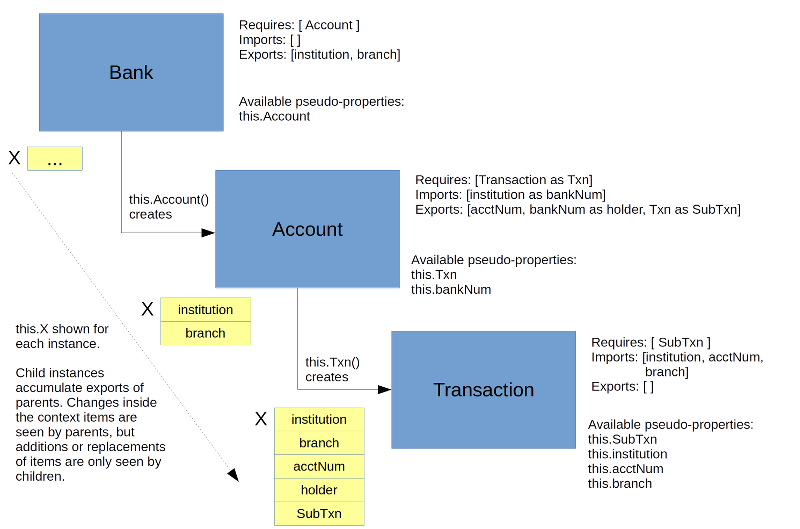
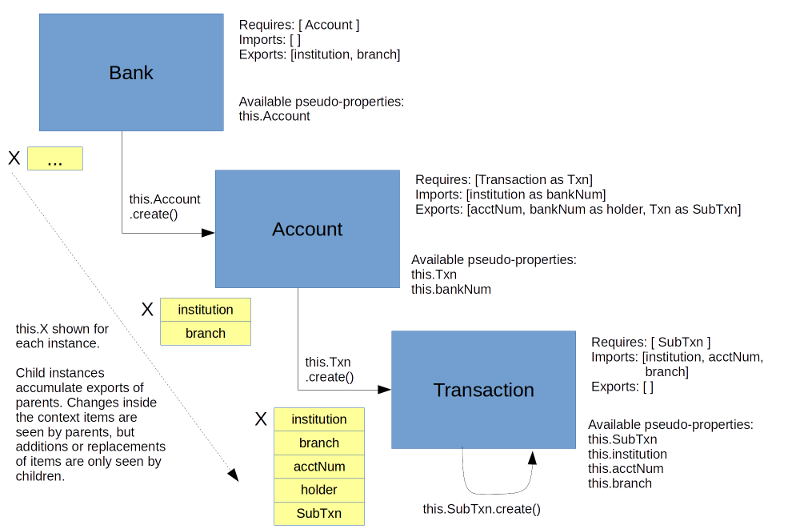
Doc Updates to revert to .create()

diff --git a/apps/docs/developerDocs.js b/apps/docs/developerDocs.js
@@ -236,13 +236,13 @@ var RegisterDevDocs = function(opt_X) {
           <ul>
           <li>To use a $$DOC{ref:'Model'} definition, add it to your $$DOC{ref:'Model.requires'}.
           This indicates not only that it should be loaded for you, but also installs a
-          shortcut on your instance so you can call <code>this.ModelName()</code> to
+          shortcut on your instance so you can call <code>this.ModelName.create()</code> to
           create an instance.
           </li>
           <li>To access values and $$DOC{ref:'Property',usePlural:true} that your
           parent (or its parent) has exported, list them in your $$DOC{ref:'Model.imports'}.
           Shortcuts are created on your instance so you can access the values:
-          <code>this.impdPropName</code>.
+          <code>imports: [ 'myImport' ]</code> gives you <code>this.myImport</code>.
           </li>
           <li>To make your own $$DOC{ref:'Property',usePlural:true} available to
           the instances you create, list them in $$DOC{ref:'Model.exports'}.
@@ -267,7 +267,7 @@ var RegisterDevDocs = function(opt_X) {
           model_: 'Documentation',
           body: function() {/*
           <p>This example demonstrates how imports and exports are passed down through
-          the creation chain. In this exmaple, <code>Bank</code> creates one or more
+          the creation chain. In this example, <code>Bank</code> creates one or more
           <code>Accounts</code>, and <code>Account</code> creates a one or
           more <code>Transactions</code>.</p>
           <p><img src="images/contextNew.png" alt="Bank Account Transaction diagram"/></p>
@@ -286,12 +286,17 @@ var RegisterDevDocs = function(opt_X) {
                 along with the other things exported from its parents.
                </li>
                <li>
+               If <code>Transaction</code> changed the value of <code>branch</code>, the value
+               change would be seen by both <code>Account</code> and <code>Bank</code>.
+               </li>
+               <li>
                 Dependency injection can be performed by
                 $$DOC{ref:'Model.requires',text:'requiring'} a $$DOC{ref:'Model'} and
                 then $$DOC{ref:'Model.exports',text:'exporting'} it with the name of
                 the $$DOC{ref:'Model'} you wish to replace. <code>Account</code>
                 exports <code>Transaction</code> as <code>SubTxn</code>, so when
-                <code>Transaction</code> tries to create an instance of this.SubTxn(),
+                <code>Transaction</code> tries to create an instance of
+                <code>this.SubTxn.create()</code>,
                 it actually creates an instance of itself. Replacements of existing
                 $$DOC{ref:'Model'} names can also be done for easy mocking.
                 </li>

diff --git a/core/mm1Model.js b/core/mm1Model.js
@@ -70,7 +70,7 @@ var Model = {
       <p>To create an instance of a $$DOC{ref:'Model'}, add it in your
       $$DOC{ref:'Model.requires'} list, then, in Javascript:</p>
       <p>
-        <code>this.YourModel({ propName: val... })</code> creates an instance.
+        <code>this.YourModel.create({ propName: val... })</code> creates an instance.
       </p>
       <p>
       Under the covers, $$DOC{ref:'Model.requires'} is creating an alias for the
@@ -91,6 +91,11 @@ var Model = {
         seamless dependency injection. See the
         $$DOC{ref:'developerDocs.Context', text:'Context documentation'}
         for more information.</li>
+
+        <li>Calling .create direclty on a $$DOC{ref:'Model'} from your context,
+        without using the $$DOC{ref:'.requires'} shortcut, must include the
+        context: <code>this.X.MyModel.create({args}, this.X);</code>. Use
+        $$DOC{ref:'.requires'} unless you have some compelling reason not to!</li>
       </ul>
       </p>
       <p>For more information about how $$DOC{ref:'Model',usePlural:true} are instantiated,
